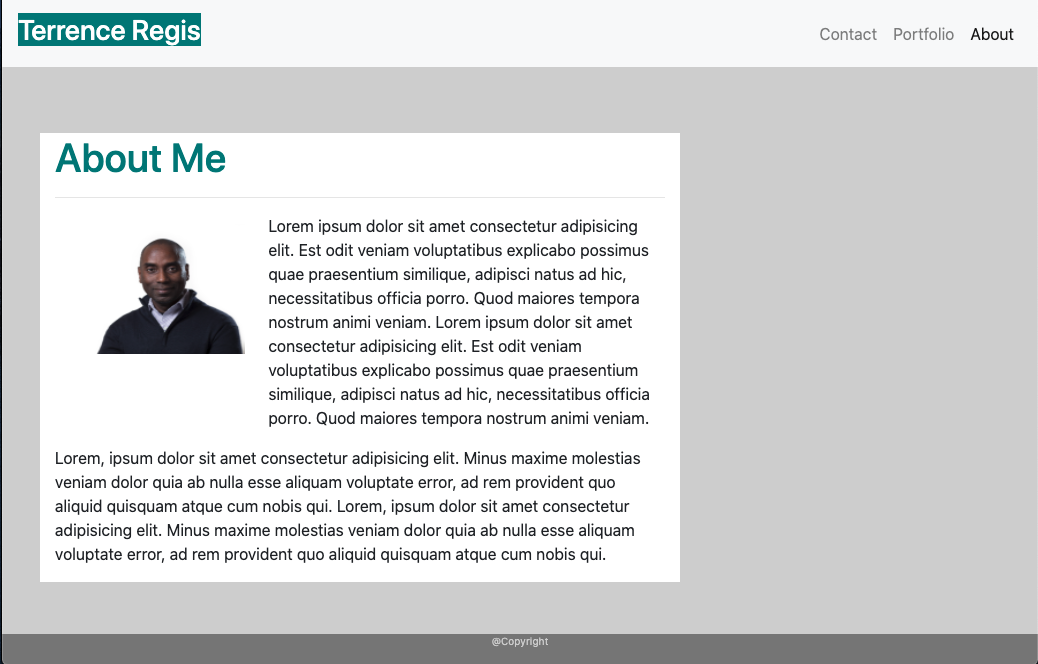
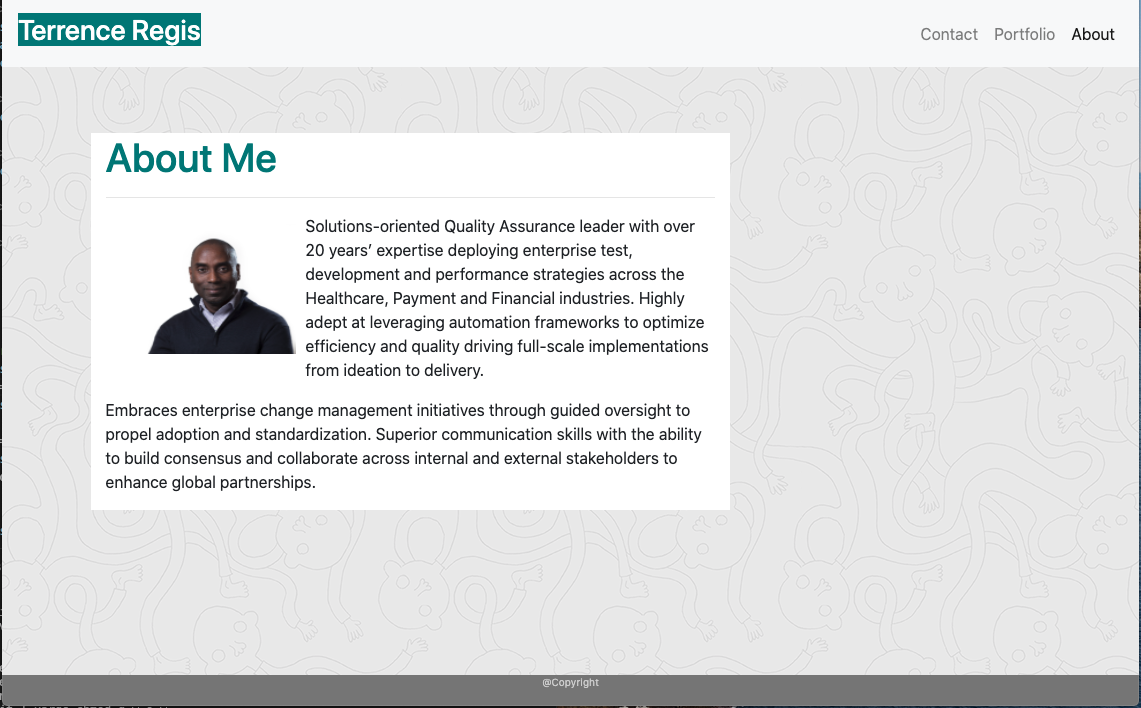
Updated images, cleaned up containers and css.

diff --git a/index.html b/index.html
@@ -55,39 +55,28 @@
         <div class="col-sm-12"><p></p></div>
       </div>
       <div class="row">
-        <div class="col-sm-8">
+        <div class="col-sm-8 col-xs-12">
           <h1>About Me</h1>
           <hr />
         </div>
-        <div class="col-sm-4 col-xs-12"></div>
-      </div>
-      <div class="row">
-        <div class="col-sm-8">
-          <div class="row">
-            <div class="col-sm-4">
-              <img
-                src="./assets/images/F19_8508.JPG"
-                alt="TR"
-                width="200"
-                height="150"
-              />
-            </div>
-            <div class="col-sm-8">
-              <p>
-                Solutions-oriented Quality Assurance leader with over 20 years’
-                expertise deploying enterprise test, development and performance
-                strategies across the Healthcare, Payment and Financial
-                industries. Highly adept at leveraging automation frameworks to
-                optimize efficiency and quality driving full-scale
-                implementations from ideation to delivery.
-              </p>
-            </div>
-          </div>
-        </div>
         <div class="col-sm-4"></div>
       </div>
+
       <div class="row">
         <div class="col-sm-8">
+          <img src="./assets/images/F19_8508.JPG" alt="TR" class="profileImg" />
+          <p>
+            Solutions-oriented Quality Assurance leader with over 20 years’
+            expertise deploying enterprise test, development and performance
+            strategies across the Healthcare, Payment and Financial industries.
+            Highly adept at leveraging automation frameworks to optimize
+            efficiency and quality driving full-scale implementations from
+            ideation to delivery. <br />
+          </p>
+        </div>
+      </div>
+      <div class="row">
+        <div class="col-sm-8 col-xs-12">
           <p>
             Embraces enterprise change management initiatives through guided
             oversight to propel adoption and standardization. Superior
@@ -96,10 +85,6 @@
             global partnerships.
           </p>
         </div>
-        <div class="col-sm-4"></div>
-      </div>
-      <div class="row">
-        <div class="col-sm-12"><p></p></div>
       </div>
     </section>
 

diff --git a/assets/css/style.css b/assets/css/style.css
@@ -6,6 +6,11 @@
 .col-sm-12 p {
   height: 50px;
 }
+.profileImg {
+  float: left;
+  width: 200px;
+  height: 150px;
+}
 
 .col-sm-8 h1 {
   color: teal;
@@ -15,7 +20,7 @@
 }
 
 body {
-  background-color: #d3d3d3;
+  background-image: url("../images/ignasi_pattern_s.png");
 }
 #footer {
   position: fixed;
